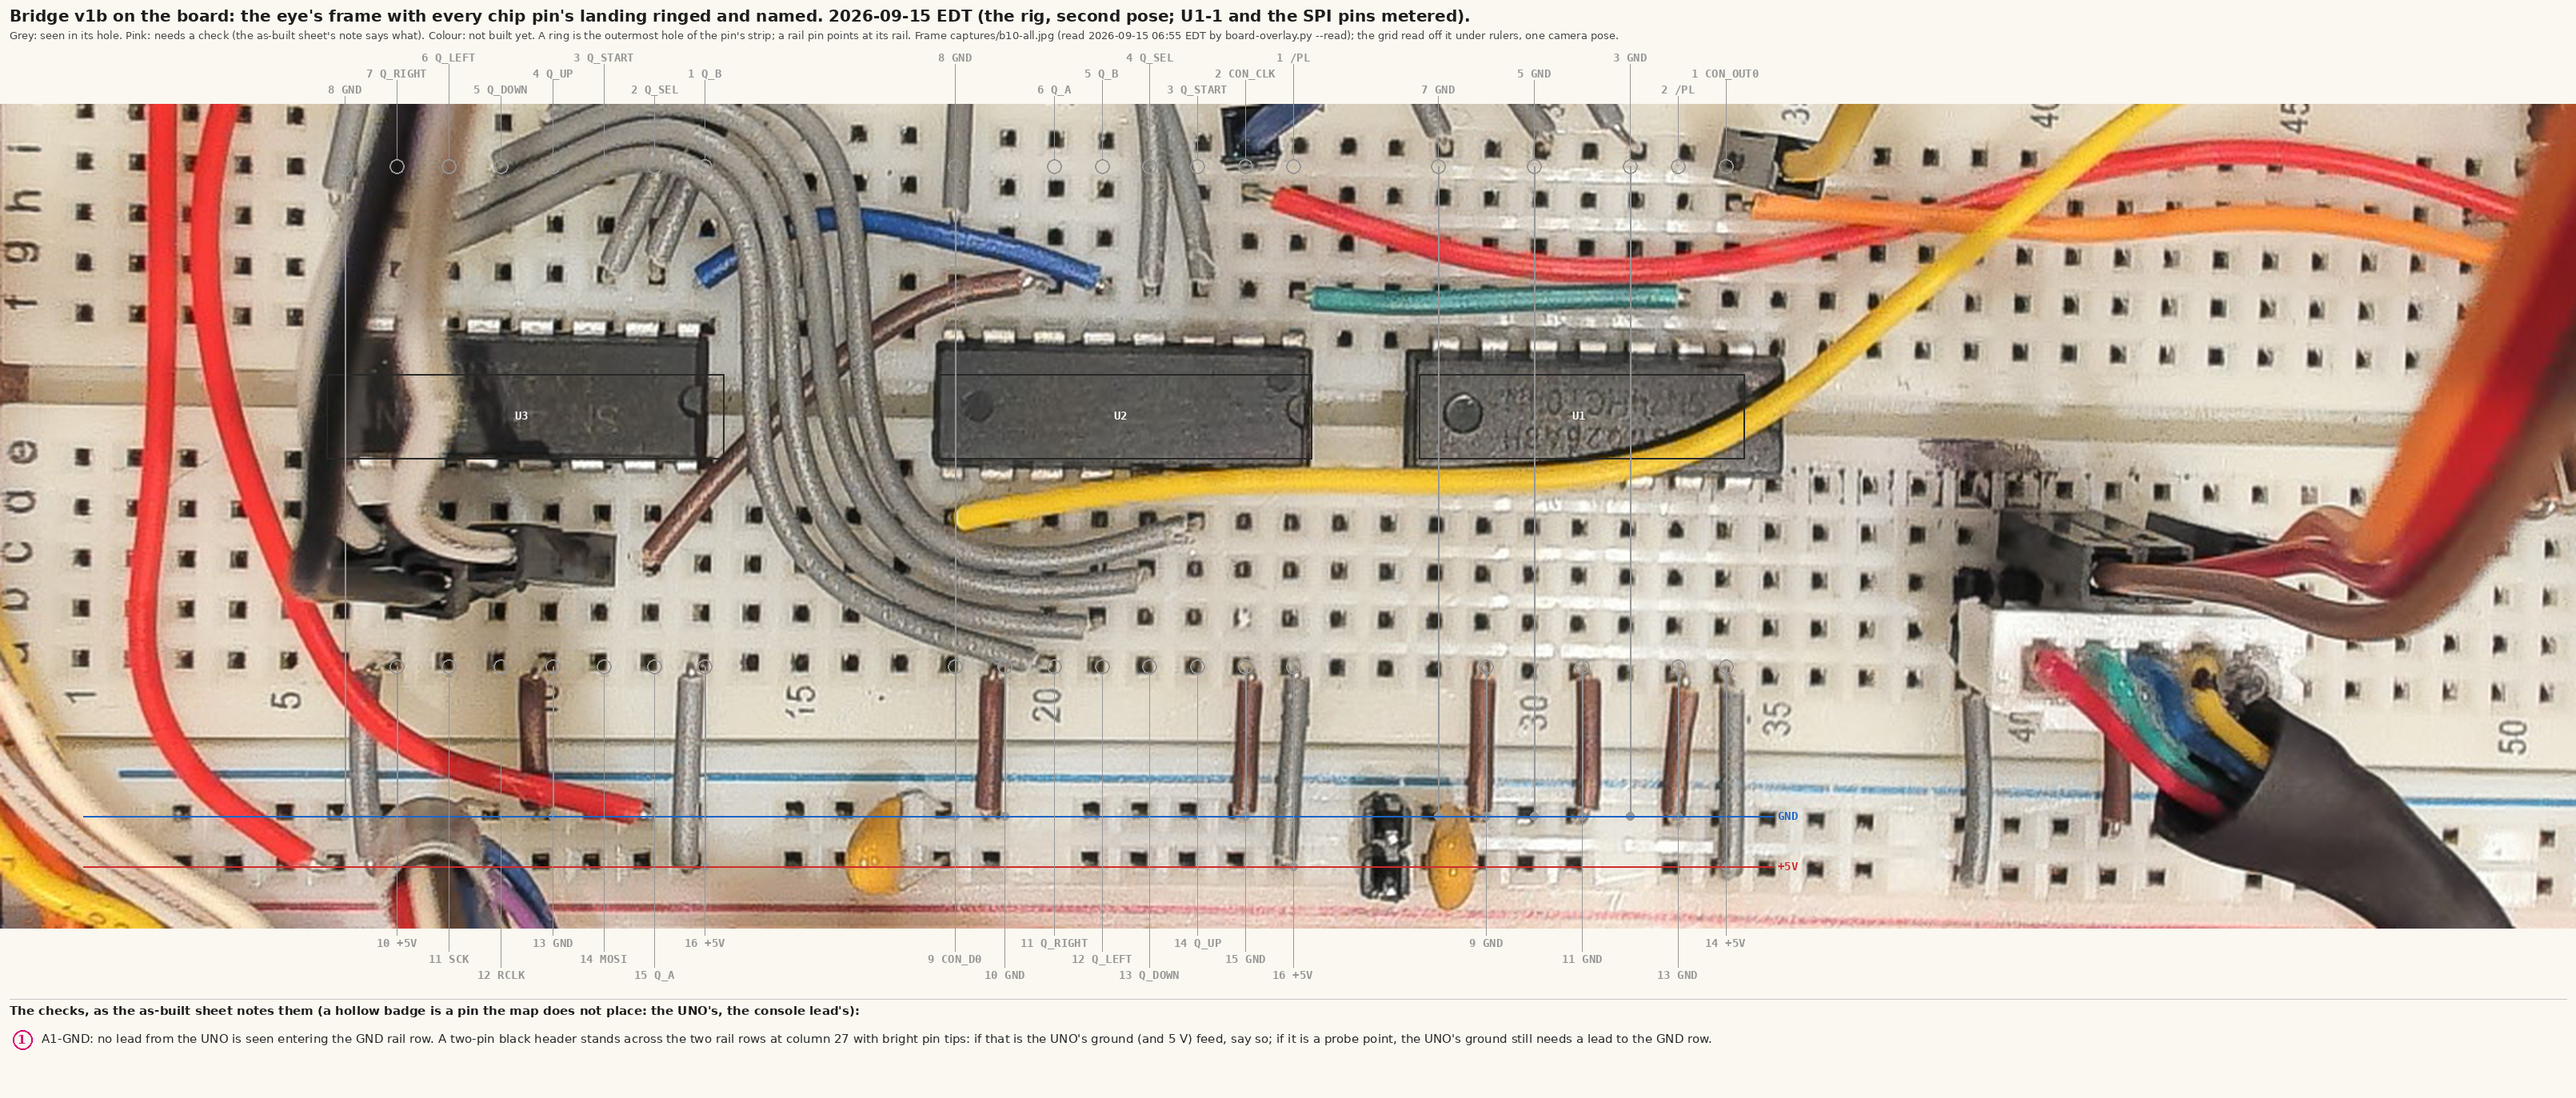
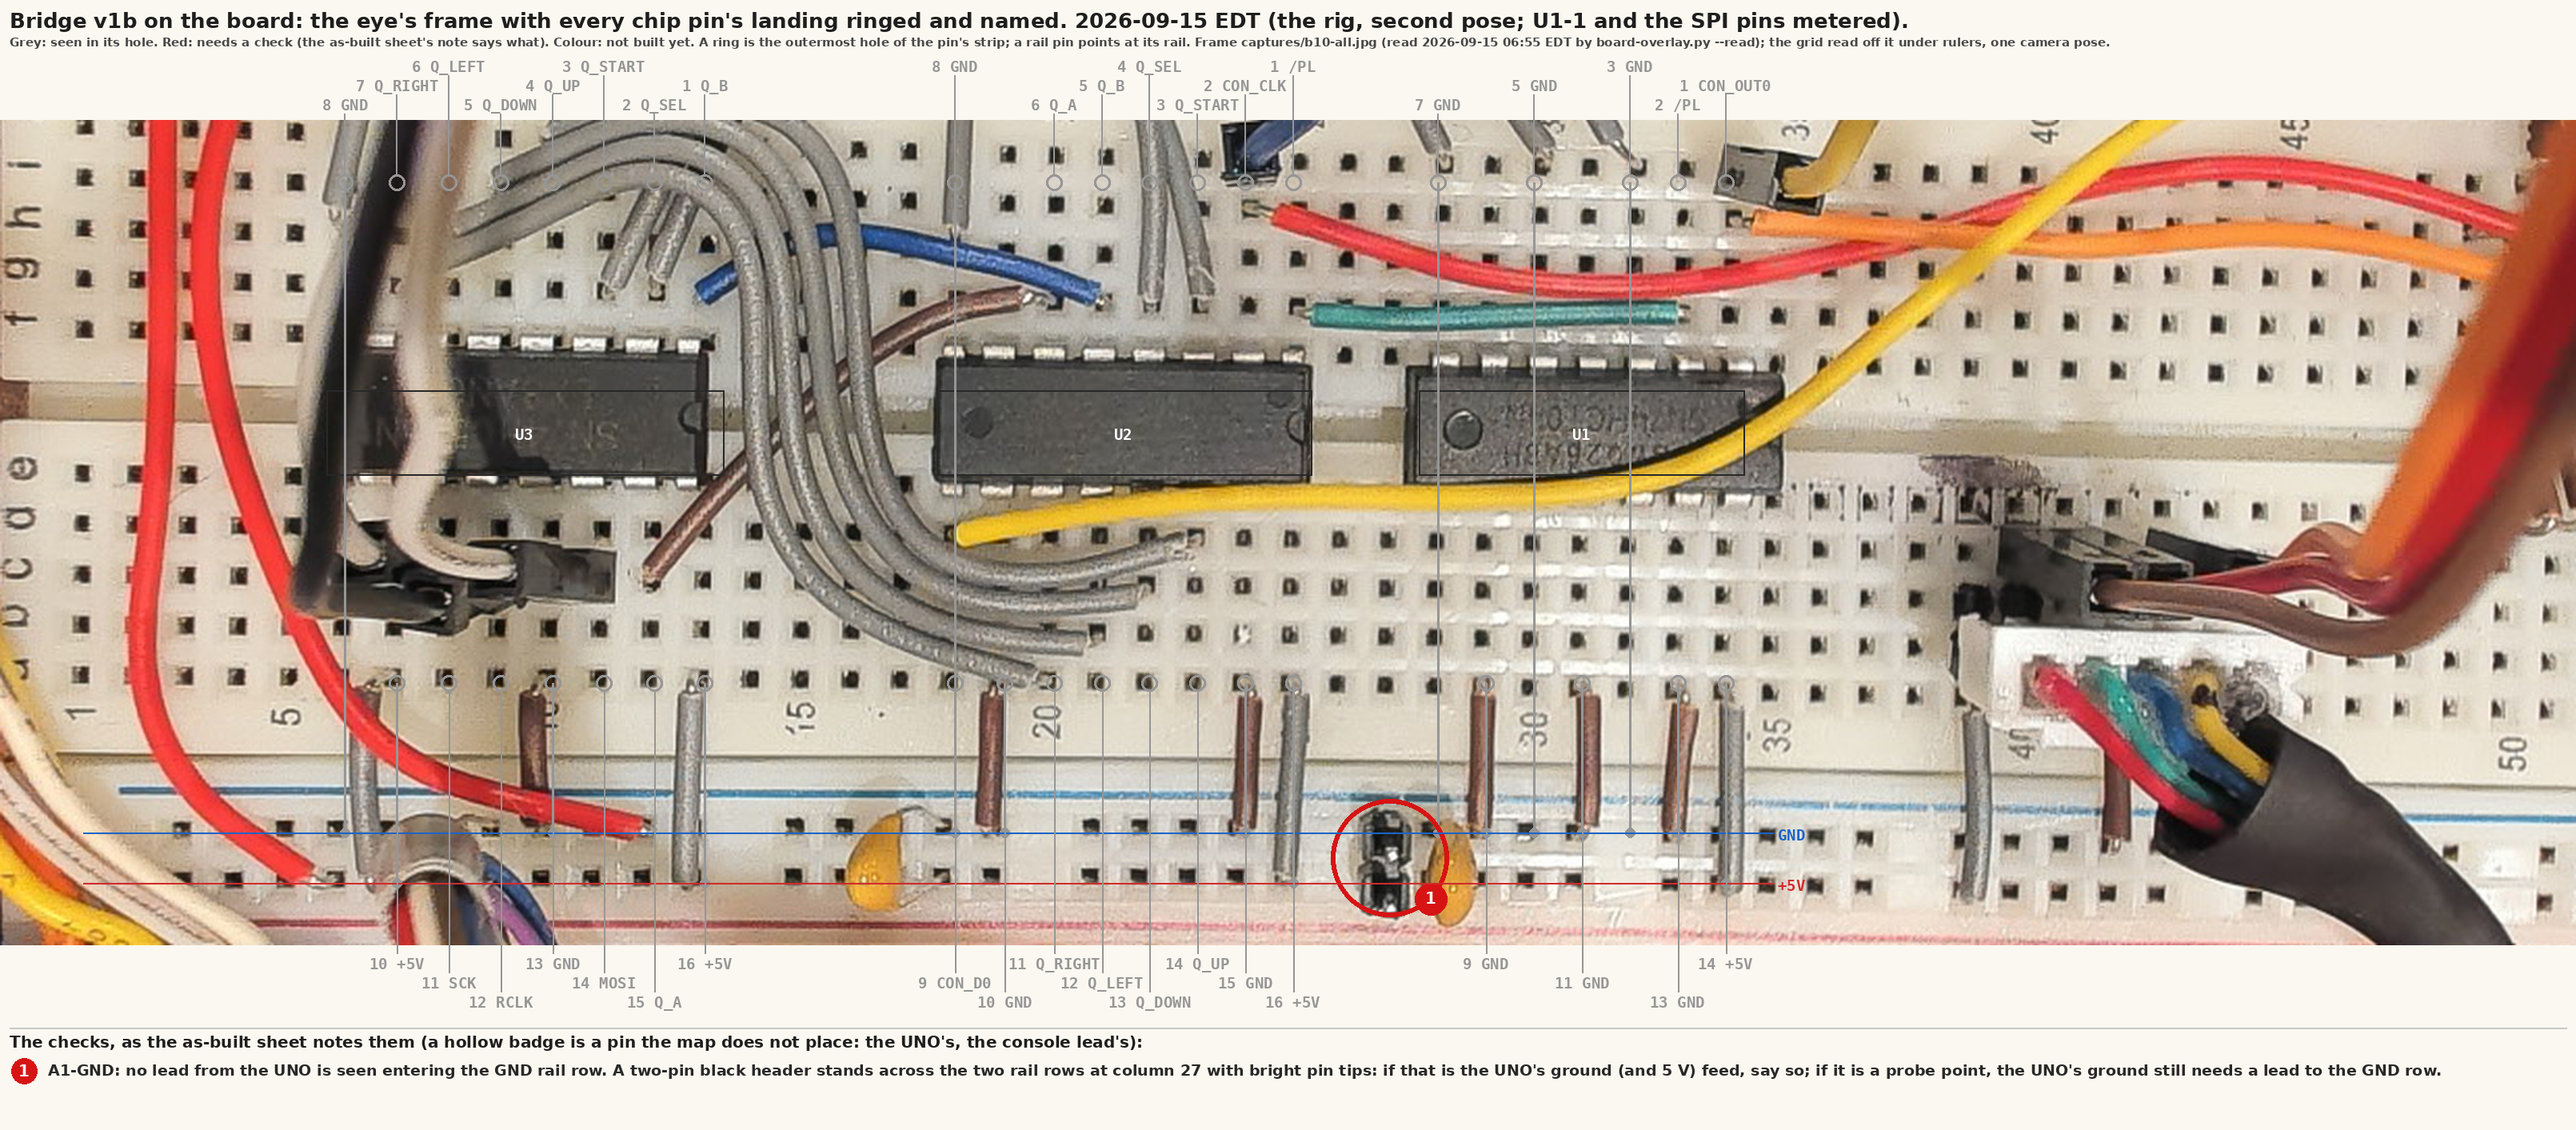
The overlay's callouts heavier and red: one circle round each area of interest, bold larger type, an off-map check circled where its note points
Claude-Session: https://claude.ai/code/session_01BdJ3NUxHSKQzEFUn9ViLv2

diff --git a/tools/board-overlay.py b/tools/board-overlay.py
@@ -41,7 +41,7 @@ sys.path.insert(0, str(ROOT / "tools"))
 from loadmod import load  # noqa: E402
 
 GREY = (150, 150, 150)
-PINK = (212, 0, 111)
+PINK = (215, 20, 20)  # the check colour: red, heavy, seen at arm's length
 PALETTE = [(122, 63, 191), (15, 143, 158), (181, 101, 29), (141, 31, 94), (63, 111, 42), (91, 91, 214), (194, 24, 91),
            (0, 121, 107), (230, 81, 0), (69, 39, 160), (46, 125, 50), (109, 76, 65), (2, 119, 189), (173, 20, 87),
            (85, 139, 47), (239, 108, 0), (40, 83, 147), (0, 131, 143), (158, 157, 36), (216, 67, 21), (21, 101, 192)]
@@ -431,8 +431,8 @@ def main():
         callout[key] = notes.index(text) + 1
     hollow = {n for n in range(1, len(notes) + 1) if not any(k in on_map for k, m_ in callout.items() if m_ == n)}
     try:
-        note_font = ImageFont.truetype("/usr/share/fonts/truetype/dejavu/DejaVuSans.ttf", 15)
-        badge_font = ImageFont.truetype("/usr/share/fonts/truetype/dejavu/DejaVuSans-Bold.ttf", 15)
+        note_font = ImageFont.truetype("/usr/share/fonts/truetype/dejavu/DejaVuSans-Bold.ttf", 19)
+        badge_font = ImageFont.truetype("/usr/share/fonts/truetype/dejavu/DejaVuSans-Bold.ttf", 20)
     except OSError:
         note_font = badge_font = ImageFont.load_default()
 
@@ -453,17 +453,17 @@ def main():
     note_lines = []
     for i, text in enumerate(notes, 1):
         pins_of = ", ".join(k.replace(".", "-") for k, n in callout.items() if n == i)
-        note_lines.append((i, wrap(f"{pins_of}: {text}", W - 80)))
-    panel = 40 + sum(22 * len(ls) + 10 for _, ls in note_lines) if note_lines else 0
-    canvas = Image.new("RGB", (W, H + 270 + panel), (250, 248, 240))
+        note_lines.append((i, wrap(f"{pins_of}: {text}", W - 90)))
+    panel = 40 + sum(27 * len(ls) + 14 for _, ls in note_lines) if note_lines else 0
+    canvas = Image.new("RGB", (W, H + 300 + panel), (250, 248, 240))
     rot = crop.rotate(-90, expand=True).resize((W, H), Image.LANCZOS)
-    top_pad = 130
+    top_pad = 150
     canvas.paste(rot, (0, top_pad))
     d = ImageDraw.Draw(canvas)
     try:
-        font = ImageFont.truetype("/usr/share/fonts/truetype/dejavu/DejaVuSansMono-Bold.ttf", 14)
-        small = ImageFont.truetype("/usr/share/fonts/truetype/dejavu/DejaVuSans.ttf", 13)
-        title = ImageFont.truetype("/usr/share/fonts/truetype/dejavu/DejaVuSans-Bold.ttf", 20)
+        font = ImageFont.truetype("/usr/share/fonts/truetype/dejavu/DejaVuSansMono-Bold.ttf", 19)
+        small = ImageFont.truetype("/usr/share/fonts/truetype/dejavu/DejaVuSans-Bold.ttf", 15)
+        title = ImageFont.truetype("/usr/share/fonts/truetype/dejavu/DejaVuSans-Bold.ttf", 26)
     except OSError:
         font = small = title = ImageFont.load_default()
 
@@ -477,6 +477,7 @@ def main():
         return v["state"] if v else None
 
     placed = 0
+    areas = {}
     labels = []  # (x, y, text, colour, above)
     for ref, chip in m["chips"].items():
         if chip["board"] != board_name:
@@ -496,24 +497,44 @@ def main():
             cx, cy = to_canvas(px, py)
             st = state_of(ref, pin)
             c = GREY if st == "done" else PINK if st == "check" else colour.get(net, (60, 60, 60))
-            r = 11 if st == "check" else 9
-            d.ellipse([cx - r, cy - r, cx + r, cy + r], outline=c, width=3 if st == "check" else 2)
+            r = 13 if st == "check" else 10
+            d.ellipse([cx - r, cy - r, cx + r, cy + r], outline=c, width=5 if st == "check" else 3)
             # the wire's other end: a rail pin points to its rail
             if net in nl.RAILS:
                 rx, ry = to_canvas(board.rail_x(net, py), py)
-                d.line([cx, cy, rx, ry], fill=c, width=2)
-                d.ellipse([rx - 5, ry - 5, rx + 5, ry + 5], fill=c)
+                d.line([cx, cy, rx, ry], fill=c, width=3)
+                d.ellipse([rx - 6, ry - 6, rx + 6, ry + 6], fill=c)
             labels.append((cx, cy, f"{pin} {net}", c, side == "middle"))
             n = callout.get(f"{ref}.{pin}")
             if n:
-                # the badge sits off the ring toward the board's edge on its
-                # side, on a short leader, clear of the chip body
-                bx, by = cx + (22 if side == "middle" else -22), cy + (-26 if side == "middle" else 26)
-                d.line([cx, cy, bx, by], fill=PINK, width=2)
-                d.ellipse([bx - 12, by - 12, bx + 12, by + 12], fill=PINK)
-                w = d.textlength(str(n), font=badge_font)
-                d.text((bx - w / 2, by - 9), str(n), fill=(255, 255, 255), font=badge_font)
+                areas.setdefault(n, []).append((cx, cy, side))
             placed += 1
+    # A check the map does not place may say where on the board its note
+    # points ("at": column and side); that spot is circled like a pin's.
+    for key, v in status["pins"].items():
+        n, at = callout.get(key), v.get("at")
+        if n and at and key not in on_map:
+            y = board.y(at["col"])
+            if at["side"] == "rail":
+                pts = [to_canvas(board.rail_x(r, y), y) for r in ("GND", "+5V")]
+                pts = [(x, yy, "rails") for x, yy in pts]
+            else:
+                x = board.x(at["side"], 0 if at["side"] == "middle" else 4, y)
+                pts = [(*to_canvas(x, y), at["side"])]
+            areas.setdefault(n, []).extend(pts)
+            hollow.discard(n)
+    # The area of interest: one heavy red circle round every pin a callout
+    # names (a note that names three neighbours gets one circle round the
+    # three), the badge on its rim toward the board's edge on that side.
+    for n, pts in areas.items():
+        mx, my = sum(p[0] for p in pts) / len(pts), sum(p[1] for p in pts) / len(pts)
+        rr = max(((p[0] - mx) ** 2 + (p[1] - my) ** 2) ** 0.5 for p in pts) + 42
+        d.ellipse([mx - rr, my - rr, mx + rr, my + rr], outline=PINK, width=6)
+        up = pts[0][2] == "middle"
+        bx, by = mx + rr * 0.7, my - rr * 0.7 if up else my + rr * 0.7
+        d.ellipse([bx - 20, by - 20, bx + 20, by + 20], fill=PINK)
+        w = d.textlength(str(n), font=badge_font)
+        d.text((bx - w / 2, by - 13), str(n), fill=(255, 255, 255), font=badge_font)
     # rails
     for name in ("GND", "+5V"):
         ya, yb = board.y(1), board.y(35)
@@ -528,34 +549,34 @@ def main():
             w = d.textlength(text, font=font)
             row = k % 3
             if above:
-                ty = top_pad - 26 - row * 20
-                d.line([cx, cy - 9, cx, ty + 16], fill=c, width=1)
+                ty = top_pad - 30 - row * 24
+                d.line([cx, cy - 10, cx, ty + 22], fill=c, width=2)
             else:
-                ty = top_pad + H + 10 + row * 20
-                d.line([cx, cy + 9, cx, ty - 2], fill=c, width=1)
+                ty = top_pad + H + 12 + row * 24
+                d.line([cx, cy + 10, cx, ty - 2], fill=c, width=2)
             d.text((cx - w / 2, ty), text, fill=c, font=font)
-    d.text((12, 8), f"Bridge v1b on the board: the eye's frame with every chip pin's landing ringed and named. {status['read']}.", fill=(30, 30, 30), font=title)
-    d.text((12, 36), "Grey: seen in its hole. Pink: needs a check (the as-built sheet's note says what). Colour: not built yet. A ring is the outermost hole of the pin's strip; a rail pin points at its rail. "
+    d.text((12, 10), f"Bridge v1b on the board: the eye's frame with every chip pin's landing ringed and named. {status['read']}.", fill=(30, 30, 30), font=title)
+    d.text((12, 44), "Grey: seen in its hole. Red: needs a check (the as-built sheet's note says what). Colour: not built yet. A ring is the outermost hole of the pin's strip; a rail pin points at its rail. "
                      f"Frame {m['frame']}; the grid read off it under rulers, one camera pose.", fill=(70, 70, 70), font=small)
     if note_lines:
-        y = top_pad + H + 100
-        d.line([12, y - 12, W - 12, y - 12], fill=(200, 200, 200), width=1)
+        y = top_pad + H + 115
+        d.line([12, y - 12, W - 12, y - 12], fill=(200, 200, 200), width=2)
         d.text((12, y - 6), "The checks, as the as-built sheet notes them (a hollow badge is a pin the map does not place: the UNO's, the console lead's):", fill=(30, 30, 30), font=badge_font)
         y += 26
         for i, ls in note_lines:
             if i in hollow:
-                d.ellipse([16, y + 1, 40, y + 25], outline=PINK, width=2)
-                d.text((28 - d.textlength(str(i), font=badge_font) / 2, y + 4), str(i), fill=PINK, font=badge_font)
+                d.ellipse([14, y, 46, y + 32], outline=PINK, width=3)
+                d.text((30 - d.textlength(str(i), font=badge_font) / 2, y + 4), str(i), fill=PINK, font=badge_font)
             else:
-                d.ellipse([16, y + 1, 40, y + 25], fill=PINK)
-                d.text((28 - d.textlength(str(i), font=badge_font) / 2, y + 4), str(i), fill=(255, 255, 255), font=badge_font)
+                d.ellipse([14, y, 46, y + 32], fill=PINK)
+                d.text((30 - d.textlength(str(i), font=badge_font) / 2, y + 4), str(i), fill=(255, 255, 255), font=badge_font)
             for line in ls:
-                d.text((52, y + 3), line, fill=(40, 40, 40), font=note_font)
-                y += 22
-            y += 10
+                d.text((60, y + 4), line, fill=(40, 40, 40), font=note_font)
+                y += 27
+            y += 14
     Path(a.out).parent.mkdir(parents=True, exist_ok=True)
     canvas.save(a.out, optimize=True)
-    print(f"wrote {a.out}: {placed} pins over {len(m['chips'])} chips on the {board_name} board, {len(notes)} callouts, {W}x{H + 270 + panel}")
+    print(f"wrote {a.out}: {placed} pins over {len(m['chips'])} chips on the {board_name} board, {len(notes)} callouts, {W}x{H + 300 + panel}")
 
 
 if __name__ == "__main__":
